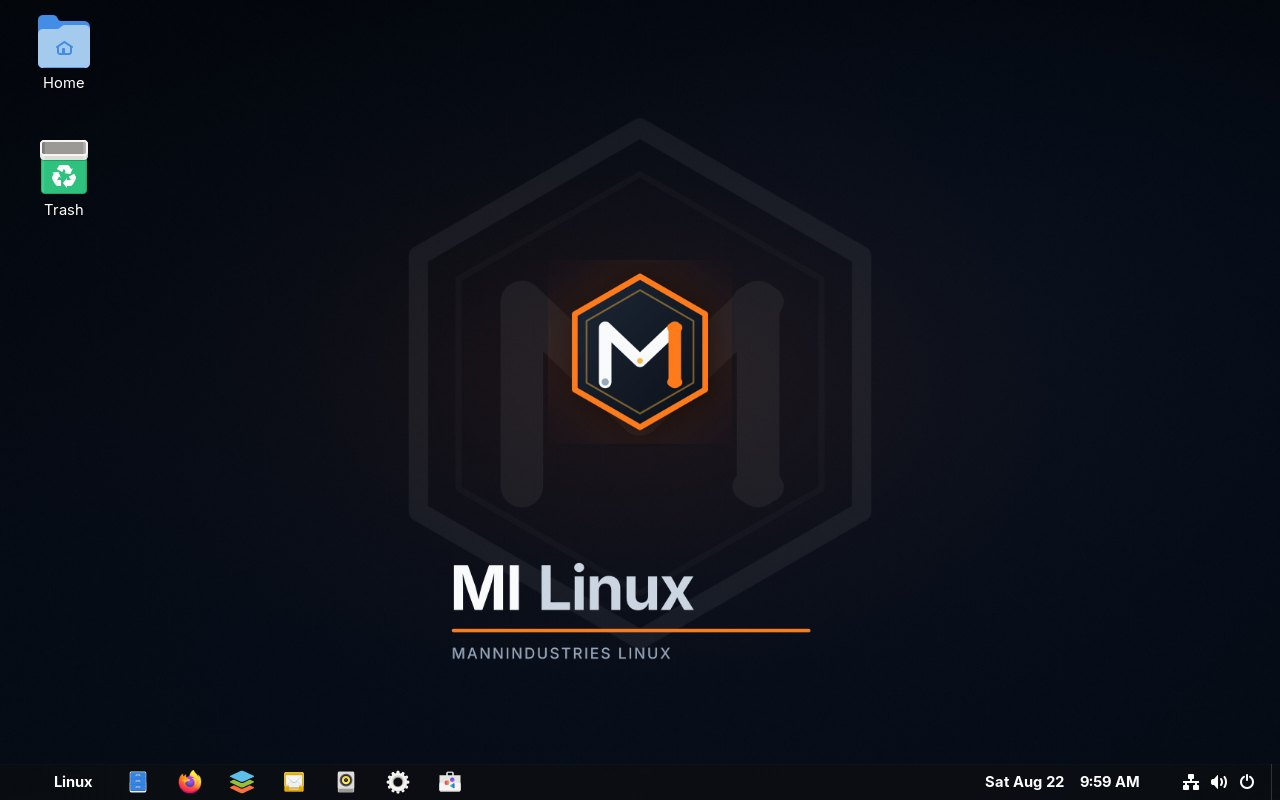
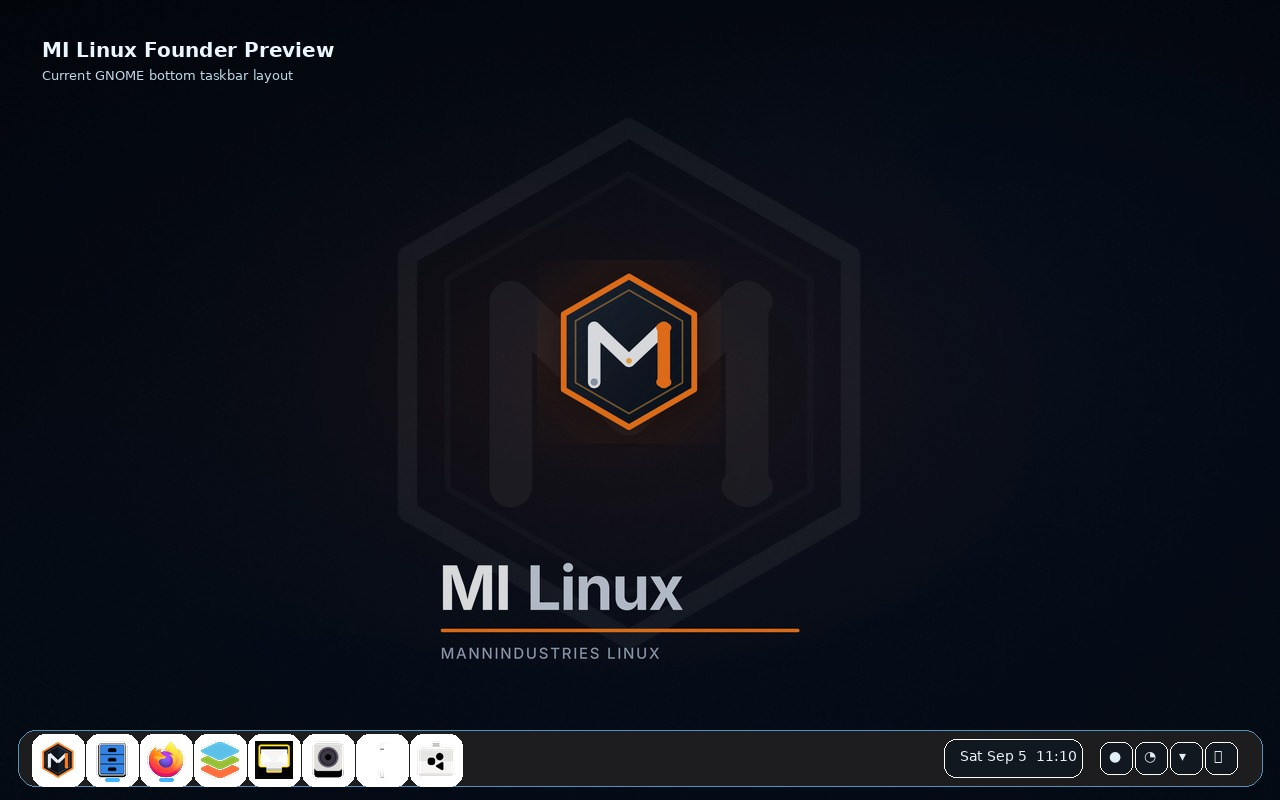
docs: refresh MI Linux desktop screenshots
- Replace desktop and live desktop images from the current MI Linux layout
- Add a taskbar close-up for the visual tour
- Update tour captions for the refreshed Founder Preview desktop

diff --git a/website/tour.html b/website/tour.html
@@ -75,10 +75,16 @@
         <h2>A familiar layout with MI Linux polish.</h2>
         <p>The desktop uses GNOME with a bottom taskbar, pinned everyday apps, dark styling, and Mann Industries artwork.</p>
       </div>
-      <figure class="tour-shot wide">
-        <img src="assets/tour/desktop.jpg" alt="MI Linux GNOME desktop">
-        <figcaption>Desktop, taskbar, pinned apps, and system tray.</figcaption>
-      </figure>
+      <div class="tour-grid two desktop-tour-grid">
+        <figure class="tour-shot">
+          <img src="assets/tour/desktop.jpg" alt="MI Linux GNOME desktop with bottom taskbar">
+          <figcaption>Desktop, wallpaper, pinned apps, and system tray from the current MI Linux layout.</figcaption>
+        </figure>
+        <figure class="tour-shot taskbar-detail">
+          <img src="assets/tour/taskbar.png" alt="MI Linux bottom taskbar close-up with pinned apps and system tray">
+          <figcaption>Bottom taskbar close-up with the MI launcher, app favorites, clock, and tray controls.</figcaption>
+        </figure>
+      </div>
     </section>
 
     <section class="panel tour-section">
@@ -98,7 +104,7 @@
         </figure>
         <figure class="tour-shot">
           <img src="assets/tour/live-desktop.png" alt="MI Linux live desktop after boot">
-          <figcaption>New live desktop capture from a fresh QEMU boot of the Founder Preview ISO.</figcaption>
+          <figcaption>Live desktop capture refreshed from the current MI Linux Founder Preview system.</figcaption>
         </figure>
       </div>
     </section>

diff --git a/website/style.css b/website/style.css
@@ -232,6 +232,8 @@ footer img { width: min(360px, 72vw); display: block; margin: 0 auto 1rem; }
   gap: 1rem;
 }
 .tour-shot.wide img { aspect-ratio: 16 / 9; }
+.desktop-tour-grid { align-items: stretch; }
+.taskbar-detail img { aspect-ratio: 16 / 2; object-fit: contain; background: #050912; }
 .tour-cards article { min-height: 180px; }
 .os-shot-grid {
   display: grid;
